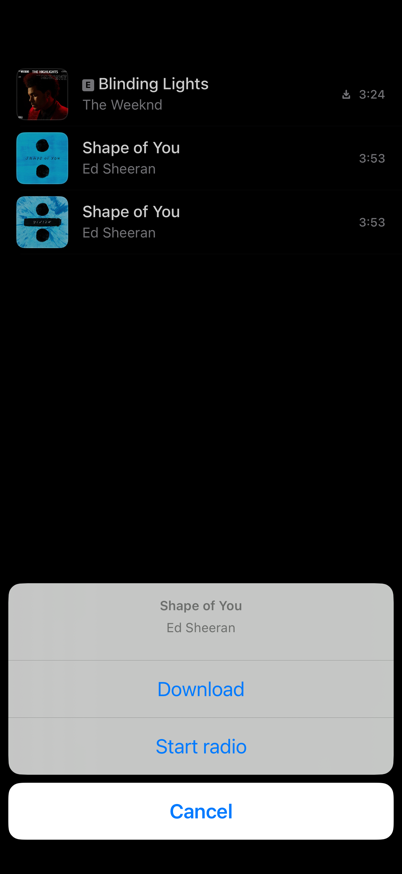
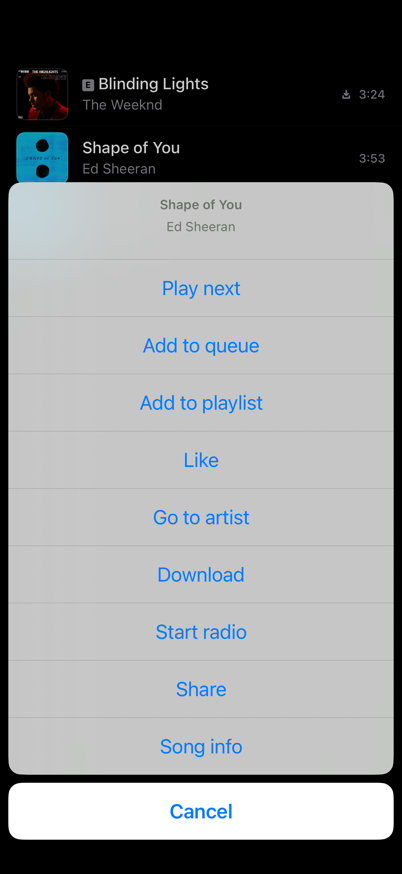
Record the green matrix run, its keys and the rebuilt IPA

diff --git a/AUDIT.md b/AUDIT.md
@@ -12,10 +12,12 @@ screenshot), **Ported** (implemented and reachable, exercised indirectly by the
 flows CI asserts), **iOS 12 block**, **Account/credential** (needs an account or
 third-party keys this build cannot ship), **Android-only**.
 
-Latest full run: commit `5b7e2f5`, all three jobs green (`43378307644`). Both
-root IPAs are that build: `MinimumOSVersion 12.0`, `UIDeviceFamily [1,2]`, thin
-`arm64`, bundle `com.bitchord.ios12v2` - verified inside CI by unzipping the
-packaged IPA and again on the committed file.
+Latest full run: commit `2b7fd9e`, all three jobs green (`43380104251`). Both
+root IPAs are that build: 16,947,648 bytes, sha256 `e6493578...`, bundle
+`com.bitchord.ios12v2` 2.0.0, `MinimumOSVersion 12.0`, `UIDeviceFamily [1,2]`,
+and a thin `arm64` executable (`cputype 0x100000c`) - verified inside CI by
+unzipping the packaged IPA and again on the committed file, with both copies
+byte-identical.
 
 ## Shell and navigation
 
@@ -116,7 +118,21 @@ Named rather than hidden:
 ## What CI measured, and what it did not
 
 Measured in the simulator (`shots-v2/download-report.txt` and the background
-reports): relaunch, offline playback, deletion, two quality renditions measured
+reports), with the run above:
+
+- Song menu: `menu.items=Play next|Add to queue|Add to playlist|Like|Go to
+  artist|Delete download|Start radio|Share|Song info`, every row asserted;
+  `menu.playlistGrew=true` after adding into a new playlist.
+- Queue: `queue.before=2`, `afterAdd=3`, `afterRemove=2`, `playNext=true`,
+  `afterMove=3`, `moved=true`.
+- History screen: `historyPage.rows=4`, `afterClear=0`, `restored=1`; Replay:
+  `replay.entries=6`, `replay.plays=6`.
+- Song info: `info.rows=7`, `info.title=Blinding Lights`, `info.source=Downloaded`.
+- Autoplay: `autoplay.started=true`, `autoplay.tracks=51` from a one-song queue.
+- A force-quit relaunch reads back `verify.localTracks=1` and
+  `verify.history=2` with `verify.historyTop=Blinding Lights`.
+
+Also measured in the same run: relaunch, offline playback, deletion, two quality renditions measured
 with `afinfo`, Wi-Fi HELD, storage cap, background resumed and force-quit, addon
 versus standard, 100-song playlist sync read back by a fresh process, local
 locker, queue history, History screen, Replay, song menu and add-to-playlist,
